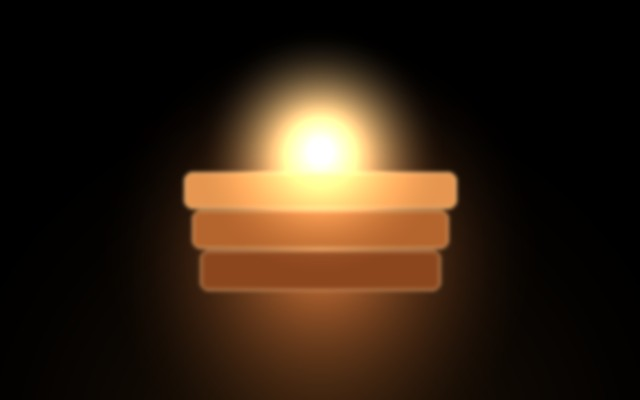
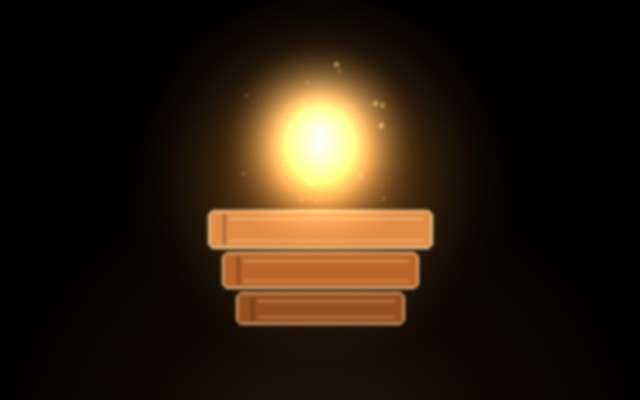
Branding scope fix, Membership section rebuild, pick art refresh, real Paddle path
- Brand name Peakora/Peakora+ now only dynamic in the assistant header,
  the 'Your Peakora(+), Your Way' heading, and the Insights top bar;
  onboarding and all other copy stay plain 'Peakora'
- Fix free-plan brand bug: membership state is now single-sourced from
  peakora_plus_member; switching to Free also resets subscription_status
- Footer tagline replaced with the official slogan
  '2026 Peakora(TM) - For a Better You.'
- Experience tab renamed to Membership and rebuilt: two glowing plan
  cards (Core free / Peakora+), per-plan feature rows, active-plan
  highlights, preview toggle, Paddle trust strip
- Picks cards get new metaphor artwork (doorway ajar in violet light,
  golden sunrise over water, glowing book stack) instead of the flat
  first drafts
- Paddle: official paddle.js v2 SDK is no longer clobbered by the demo
  mock - the mock only installs when the SDK fails to load; real flow
  initializes once with client token + price IDs (window/localStorage
  config) and opens the hosted checkout; demo completion never routes
  through the real SDK

Changed region(s): [[0.25, 0.12, 0.75, 1.0]]

diff --git a/assistant.html b/assistant.html
@@ -402,9 +402,7 @@
     }
 
     function isPeakoraPlusActive() {
-      const isPlusMember = localStorage.getItem("peakora_plus_member") === "true";
-      const subStatus = localStorage.getItem("peakora_subscription_status") || "";
-      return isPlusMember || subStatus === "Active";
+      return localStorage.getItem("peakora_plus_member") === "true";
     }
 
     function getBrandName() {
@@ -712,10 +710,8 @@
         if (outerFooter) outerFooter.style.display = "";
       }
 
-      // Dynamic header brand name update based on Peakora+ / Subscription Status
-      const isPlusMember = localStorage.getItem("peakora_plus_member") === "true";
-      const peakoraSubStatus = localStorage.getItem("peakora_subscription_status") || (isPlusMember ? "Active" : "Trial");
-      const isPlusActive = isPlusMember || peakoraSubStatus === "Active";
+      // Dynamic header brand name update based on Peakora+ membership
+      const isPlusActive = isPeakoraPlusActive();
 
       const brandEl = document.getElementById("header-brand-name");
       if (brandEl) {
@@ -729,7 +725,7 @@
       if (key === "welcome") {
         container.innerHTML = `
           <div class="step step-centered">
-            <h2>Welcome to ${getBrandName()}</h2>
+            <h2>Welcome to Peakora</h2>
             <p class="soft-note">A gentle corner of your day to breathe, reset, and get back to yourself.</p>
             <p>In a few short questions, we'll shape a 7-day plan that actually fits your life — no pressure, no perfection.</p>
             <div class="actions vertical mt-20">
@@ -745,7 +741,7 @@
       if (key === "explanation") {
         container.innerHTML = `
           <div class="step">
-            <h2>How ${getBrandName()} works</h2>
+            <h2>How Peakora works</h2>
             <p class="soft-note">Made to fit into your day, not take it over.</p>
             <ul class="preview-list">
               <li><strong>Gentle by design:</strong> No guilt, no pressure — you set the pace.</li>
@@ -1194,7 +1190,7 @@
                 <div class="dash-brand">
                   <div class="dash-brand-icon-orb" style="width:1.1em; height:1.1em; border-radius:50%; background:linear-gradient(135deg, #f4a261, #e76f51); box-shadow:0 0 12px rgba(244,162,97,0.6); flex-shrink:0;"></div>
                   <div>
-                    <div class="dash-brand-title">${getBrandName().toUpperCase()}</div>
+                    <div class="dash-brand-title">PEAKORA</div>
                     <div class="dash-brand-sub">Wellness Assistant</div>
                   </div>
                 </div>
@@ -1217,8 +1213,8 @@
                     Peakora Picks
                   </button>
                   <button class="dash-nav-btn ${activeTab === 'experience' ? 'active' : ''}" onclick="switchDashTab('experience')">
-                    <svg width="18" height="18" viewBox="0 0 24 24" fill="none" stroke="currentColor" stroke-width="2"><polygon points="12 2 15.09 8.26 22 9.27 17 14.14 18.18 21.02 12 17.77 5.82 21.02 7 14.14 2 9.27 8.91 8.26 12 2"></polygon></svg>
-                    Experience
+                    <svg width="18" height="18" viewBox="0 0 24 24" fill="none" stroke="currentColor" stroke-width="2"><path d="M12 2l2.4 4.8 5.3.8-3.8 3.7.9 5.3-4.8-2.5-4.8 2.5.9-5.3L4.3 7.6l5.3-.8z"></path></svg>
+                    Membership
                   </button>
                   <button class="dash-nav-btn ${activeTab === 'settings' ? 'active' : ''}" onclick="switchDashTab('settings')">
                     <svg width="18" height="18" viewBox="0 0 24 24" fill="none" stroke="currentColor" stroke-width="2"><circle cx="12" cy="12" r="3"></circle><path d="M19.4 15a1.65 1.65 0 0 0 .33 1.82l.06.06a2 2 0 0 1 0 2.83 2 2 0 0 1-2.83 0l-.06-.06a1.65 1.65 0 0 0-1.82-.33 1.65 1.65 0 0 0-1 1.51V21a2 2 0 0 1-2 2 2 2 0 0 1-2-2v-.09A1.65 1.65 0 0 0 9 19.4a1.65 1.65 0 0 0-1.82.33l-.06.06a2 2 0 0 1-2.83 0 2 2 0 0 1 0-2.83l.06-.06a1.65 1.65 0 0 0 .33-1.82 1.65 1.65 0 0 0-1.51-1H3a2 2 0 0 1-2-2 2 2 0 0 1 2-2h.09A1.65 1.65 0 0 0 4.6 9a1.65 1.65 0 0 0-.33-1.82l-.06-.06a2 2 0 0 1 0-2.83 2 2 0 0 1 2.83 0l.06.06a1.65 1.65 0 0 0 1.82.33H9a1.65 1.65 0 0 0 1-1.51V3a2 2 0 0 1 2-2 2 2 0 0 1 2 2v.09a1.65 1.65 0 0 0 1 1.51 1.65 1.65 0 0 0 1.82-.33l.06-.06a2 2 0 0 1 2.83 0 2 2 0 0 1 0 2.83l-.06.06a1.65 1.65 0 0 0-.33 1.82V9a1.65 1.65 0 0 0 1.51 1H21a2 2 0 0 1 2 2 2 2 0 0 1-2 2h-.09a1.65 1.65 0 0 0-1.51 1z"></path></svg>
@@ -1916,82 +1912,108 @@
           `;
         }
 
-        // TAB 6: PEAKORA EXPERIENCE & MEMBERSHIP
+        // TAB 6: MEMBERSHIP (FREE CORE + PEAKORA+ PLANS)
         if (activeTab === "experience") {
           const peakoraSubStatus = localStorage.getItem("peakora_subscription_status") || (isPlus ? "Active" : "Trial");
+          const freeFeatures = [
+            ["7-Day Personalized Reset Plan", "custom daily routines shaped around your answers"],
+            ["Mood Check-In & Bubble Visualizer", "watch honest patterns build over time"],
+            ["60-Second Breathing Reset", "somatic pacing that settles your whole system"],
+            ["Micro-Journal & Thought Unloading", "offload mental chatter, keep what matters"],
+            ["Daily Focus & Intention Anchors", "one clear priority, every morning"]
+          ];
+          const plusFeatures = [
+            ["Dynamic Themes & Color Spaces", "Sunrise, Twilight, Sage, Sunset, Ocean — your mood, your palette"],
+            ["Past Plan History & Archiving", "save weeks you loved and re-activate them anytime"],
+            ["Organic Soundscape Synthesizer", "binaural tones, ambient loops, and layered calm"],
+            ["Mood-Reactive Auto Themes", "the whole room quietly shifts color with how you feel"]
+          ];
+          const li = (f, color) => `
+            <div style="display:flex; gap:10px; align-items:flex-start;">
+              <span style="flex-shrink:0; width:20px; height:20px; border-radius:50%; background:${color}22; border:1px solid ${color}55; color:${color}; font-size:11px; font-weight:800; display:inline-flex; align-items:center; justify-content:center; margin-top:1px;">&#10003;</span>
+              <div style="font-size:12px; color:var(--theme-text-main); line-height:1.5;"><strong>${f[0]}</strong> <span style="color:var(--theme-text-muted);">— ${f[1]}</span></div>
+            </div>`;
 
           html += `
-            <div class="dash-welcome" style="margin-bottom:16px;">
+            <div class="dash-welcome" style="margin-bottom:18px;">
               <h1 class="dash-welcome-h1">Your ${getBrandName()}, Your Way</h1>
               <p style="font-size:12px; color:var(--theme-text-muted); margin-top:4px;">Free forever, or Plus when you want more room to play.</p>
             </div>
 
-            <!-- FREE PLAN BOX -->
-            <div class="dash-card mb-16" id="peakora-free-card" style="border:1px solid rgba(52, 211, 153, 0.3); background:rgba(255,255,255,0.02);">
-              <div style="display:flex; justify-content:space-between; align-items:center; margin-bottom:10px; flex-wrap:wrap; gap:6px;">
-                <div style="display:flex; align-items:center; gap:8px;">
-                  <h2 style="margin:0; font-size:18px; color:#ffffff;">Peakora Core (Free Plan)</h2>
-                </div>
-                <span class="sub-status-indicator" style="font-size:11px; font-weight:700; padding:4px 12px; border-radius:999px; background:rgba(52,211,153,0.18); color:#34d399; border:1px solid rgba(52,211,153,0.35); display:inline-flex; align-items:center; gap:5px;">
-                  <span style="font-size:8px;">●</span> Active Plan (Free)
-                </span>
-              </div>
-              <p style="font-size:13px; color:var(--theme-text-muted); margin:0 0 12px;">
-                Your essential daily mental reset toolkit. Always 100% free with no hidden subscriptions or intrusive advertisements.
-              </p>
-              <div style="background:rgba(255,255,255,0.03); border-radius:12px; padding:14px; margin-bottom:14px; border:1px solid rgba(255,255,255,0.08);">
-                <div style="font-size:12px; font-weight:700; color:#ffffff; margin-bottom:8px;">Included Free Features:</div>
-                <ul style="margin:0; padding-left:18px; font-size:12px; color:var(--theme-text-muted); line-height:1.7;">
-                  <li>✓ <strong>7-Day Personalized Reset Plan</strong> — Custom daily mental & sleep routines</li>
-                  <li>✓ <strong>Daily Mood Check-In & Bubble Visualizer</strong> — Track emotional trends over time</li>
-                  <li>✓ <strong>60-Second Breathing Reset Tool</strong> — Somatic diaphragmatic pacing</li>
-                  <li>✓ <strong>Micro-Journaling & Thought Unloading</strong> — Offload mental chatter safely</li>
-                  <li>✓ <strong>Daily Focus & Intention Anchors</strong> — Set one clear priority each morning</li>
-                </ul>
-              </div>
-              <button class="btn secondary" style="width:100%; font-size:12px; opacity:0.85; cursor:default;" disabled>
-                ✓ Currently Active (Free Plan)
-              </button>
-            </div>
+            <div style="display:grid; grid-template-columns:repeat(auto-fit, minmax(min(100%, 340px), 1fr)); gap:20px; align-items:stretch;">
 
-            <!-- PEAKORA+ PREMIUM MEMBERSHIP BOX -->
-            <div class="dash-card mb-16" id="peakora-plus-card" style="border:1px solid rgba(244,162,97,0.35);">
-              <div style="display:flex; justify-content:space-between; align-items:center; margin-bottom:10px; flex-wrap:wrap; gap:6px;">
-                <div style="display:flex; align-items:center; gap:8px;">
-                  <h2 style="margin:0; font-size:18px; color:#ffffff;">Peakora+ Premium Membership</h2>
+              <!-- PEAKORA CORE (FREE) -->
+              <div class="dash-card" id="peakora-free-card" style="margin:0; position:relative; overflow:hidden; display:flex; flex-direction:column; ${isPlus ? '' : 'border:1px solid rgba(52,211,153,0.45); box-shadow:0 10px 32px rgba(0,0,0,0.4), 0 0 26px rgba(52,211,153,0.14);'}">
+                <div style="position:absolute; top:-70px; right:-70px; width:190px; height:190px; border-radius:50%; background:radial-gradient(circle, rgba(52,211,153,0.22), transparent 70%); pointer-events:none;"></div>
+                <div style="display:flex; justify-content:space-between; align-items:flex-start; margin-bottom:4px; flex-wrap:wrap; gap:8px;">
+                  <div>
+                    <div style="font-size:10px; font-weight:800; letter-spacing:0.14em; text-transform:uppercase; color:#34d399; margin-bottom:4px;">Peakora Core</div>
+                    <h2 style="margin:0; font-size:20px; font-weight:800; color:var(--theme-heading, #ffffff);">The Free Plan</h2>
+                  </div>
+                  ${!isPlus ? `<span style="font-size:10px; font-weight:800; padding:5px 12px; border-radius:999px; background:rgba(52,211,153,0.18); color:#34d399; border:1px solid rgba(52,211,153,0.4); letter-spacing:0.06em;">YOUR PLAN</span>` : ''}
                 </div>
-                <div style="display:flex; align-items:center; gap:6px;">
-                  <span class="sub-status-indicator" style="font-size:11px; font-weight:700; padding:4px 12px; border-radius:999px; display:inline-flex; align-items:center; gap:5px; ${peakoraSubStatus === 'Active' ? 'background:rgba(244,162,97,0.2); color:#f4a261; border:1px solid rgba(244,162,97,0.4);' : 'background:rgba(245,158,11,0.2); color:#f59e0b; border:1px solid rgba(245,158,11,0.4);'}">
-                    <span style="font-size:8px;">●</span> Status: ${peakoraSubStatus}
+                <div style="display:flex; align-items:baseline; gap:6px; margin:8px 0 12px;">
+                  <span style="font-size:30px; font-weight:800; color:var(--theme-heading, #ffffff);">$0</span>
+                  <span style="font-size:12px; color:var(--theme-text-muted);">forever — no card, no catch</span>
+                </div>
+                <p style="font-size:12.5px; color:var(--theme-text-muted); margin:0 0 16px; line-height:1.6;">
+                  The essentials that keep you steady: a real plan, honest check-ins, and tools that meet you where you are.
+                </p>
+                <div style="display:flex; flex-direction:column; gap:11px; margin-bottom:20px;">
+                  ${freeFeatures.map(f => li(f, '#34d399')).join('')}
+                </div>
+                <div style="margin-top:auto;">
+                  ${isPlus
+                    ? `<button class="btn ghost" style="width:100%; font-size:12px; border:1px solid rgba(52,211,153,0.35); color:#34d399;" onclick="selectPlan(false)">Switch back to Free</button>`
+                    : `<div style="text-align:center; font-size:12px; font-weight:700; color:#34d399; padding:11px; border-radius:12px; background:rgba(52,211,153,0.1); border:1px dashed rgba(52,211,153,0.4);">This is your plan right now</div>`}
+                </div>
+              </div>
+
+              <!-- PEAKORA+ PREMIUM -->
+              <div class="dash-card" id="peakora-plus-card" style="margin:0; position:relative; overflow:hidden; display:flex; flex-direction:column; border:1px solid transparent; background:linear-gradient(var(--theme-card-bg), var(--theme-card-bg)) padding-box, var(--theme-primary-grad) border-box; box-shadow:0 14px 40px rgba(0,0,0,0.5), 0 0 34px var(--theme-card-glow);">
+                <div style="position:absolute; top:-60px; left:-60px; width:200px; height:200px; border-radius:50%; background:radial-gradient(circle, var(--theme-card-glow-hover), transparent 70%); pointer-events:none;"></div>
+                <div style="position:absolute; top:14px; right:14px; font-size:9px; font-weight:800; letter-spacing:0.12em; text-transform:uppercase; padding:5px 11px; border-radius:999px; background:var(--theme-primary-grad); color:#ffffff; box-shadow:0 4px 14px var(--theme-accent-glow);">Most Loved</div>
+                <div style="margin-bottom:4px;">
+                  <div style="font-size:10px; font-weight:800; letter-spacing:0.14em; text-transform:uppercase; background:var(--theme-primary-grad); -webkit-background-clip:text; background-clip:text; color:transparent; display:inline-block; margin-bottom:4px;">Peakora+ Membership</div>
+                  <h2 style="margin:0; font-size:20px; font-weight:800; color:var(--theme-heading, #ffffff);">The Deep Reset</h2>
+                </div>
+                <div style="display:flex; align-items:baseline; gap:6px; margin:8px 0 4px;">
+                  <span style="font-size:30px; font-weight:800; background:var(--theme-primary-grad); -webkit-background-clip:text; background-clip:text; color:transparent;">$4.99</span>
+                  <span style="font-size:12px; color:var(--theme-text-muted);">/mo &nbsp;or&nbsp; <strong style="color:var(--theme-text-main);">$47.99/yr</strong> (save 20%)</span>
+                </div>
+                <div style="font-size:11px; margin-bottom:14px; display:flex; align-items:center; gap:8px; flex-wrap:wrap;">
+                  <span class="sub-status-indicator" style="font-size:10px; font-weight:800; padding:4px 11px; border-radius:999px; display:inline-flex; align-items:center; gap:5px; ${isPlus ? 'background:rgba(244,162,97,0.2); color:var(--theme-accent); border:1px solid rgba(244,162,97,0.45);' : 'background:rgba(245,158,11,0.14); color:#f59e0b; border:1px solid rgba(245,158,11,0.35);'}">
+                    <span style="font-size:7px;">&#9679;</span> ${isPlus ? 'Active — thank you for being here' : 'Status: ' + peakoraSubStatus}
                   </span>
-                  <button type="button" class="btn ghost" style="font-size:10px; padding:3px 7px; border:1px solid rgba(255,255,255,0.15); border-radius:6px; cursor:pointer;" onclick="toggleMockSubscriptionStatus()" title="Toggle mock subscription status for testing">
-                    Switch to ${peakoraSubStatus === 'Active' ? 'Trial' : 'Active'}
+                  <button type="button" class="btn ghost" style="font-size:9px; padding:3px 7px; border:1px solid rgba(255,255,255,0.12); border-radius:6px; cursor:pointer; opacity:0.6;" onclick="toggleMockSubscriptionStatus()" title="Preview the other membership state">
+                    Preview ${isPlus ? 'free' : 'plus'}
                   </button>
                 </div>
+                <p style="font-size:12.5px; color:var(--theme-text-muted); margin:0 0 16px; line-height:1.6;">
+                  ${isPlus ? 'Everything below is already yours. Themes, soundscapes, saved weeks — all of it, unlocked.' : 'For the days you want the lights warmer and the sound deeper. Everything in Core, plus the quiet luxuries.'}
+                </p>
+                <div style="display:flex; flex-direction:column; gap:11px; margin-bottom:20px;">
+                  ${plusFeatures.map(f => li(f, '#f4a261')).join('')}
+                </div>
+                <div style="margin-top:auto;">
+                  <button class="btn primary" style="width:100%; font-size:13px; font-weight:800; padding:13px; box-shadow:0 8px 22px var(--theme-accent-glow);" onclick="openPlanSelectionModal()">
+                    ${isPlus ? 'Manage Membership & Billing' : 'Go Peakora+ — $4.99/mo'}
+                  </button>
+                  <div style="margin-top:10px; display:flex; justify-content:center; gap:14px; font-size:10px; color:var(--theme-text-muted); flex-wrap:wrap;">
+                    <span>7-day money-back guarantee</span>
+                    <span>&bull;</span>
+                    <span>Cancel anytime</span>
+                    <span>&bull;</span>
+                    <span>Secure checkout by Paddle</span>
+                  </div>
+                </div>
               </div>
-              <p style="font-size:13px; color:var(--theme-text-muted); margin:0 0 12px;">
-                ${isPlus ? 'Your Peakora+ subscription is active! You have full access to custom themes, audio soundscapes, and past plan archives.' : 'Elevate your reset with ambient soundscapes, dynamic emotional themes, auto mood-reactive styling, and past plan archives for $4.99/mo.'}
+            </div>
+
+            <div class="dash-card" style="margin-top:20px; text-align:center; padding:20px 24px;">
+              <p style="margin:0; font-size:12.5px; color:var(--theme-text-muted); line-height:1.7; font-style:italic;">
+                "Whether you stay on Core forever or move to Plus tomorrow — this space is yours either way."
               </p>
-              <div style="background:rgba(255,255,255,0.03); border-radius:12px; padding:14px; margin-bottom:14px; border:1px solid rgba(255,255,255,0.08);">
-                <div style="font-size:12px; font-weight:700; color:var(--theme-accent, #f4a261); margin-bottom:8px;">Peakora+ Premium Features ($4.99/mo or $47.99/yr):</div>
-                <ul style="margin:0; padding-left:18px; font-size:12px; color:var(--theme-text-muted); line-height:1.7;">
-                  <li style="color:${isPlus ? 'var(--theme-accent, #f4a261)' : 'var(--theme-text-muted)'}; font-weight:${isPlus ? '600' : 'normal'};">
-                    ✦ <strong>Dynamic Themes & Color Spaces</strong> (Sunrise, Twilight, Sage, Sunset, Ocean)
-                  </li>
-                  <li style="color:${isPlus ? 'var(--theme-accent, #f4a261)' : 'var(--theme-text-muted)'}; font-weight:${isPlus ? '600' : 'normal'};">
-                    ✦ <strong>Past 7-Day Plans History & Archiving</strong> — Save and re-activate previous reset plans
-                  </li>
-                  <li style="color:${isPlus ? 'var(--theme-accent, #f4a261)' : 'var(--theme-text-muted)'}; font-weight:${isPlus ? '600' : 'normal'};">
-                    ✦ <strong>Organic Soundscape Audio Synthesizer</strong> — Deep binaural white noise & ambient loops
-                  </li>
-                  <li style="color:${isPlus ? 'var(--theme-accent, #f4a261)' : 'var(--theme-text-muted)'}; font-weight:${isPlus ? '600' : 'normal'};">
-                    ✦ <strong>Mood-Reactive Auto Theme Switching</strong> — Visual UI shifts color to match your daily mood
-                  </li>
-                </ul>
-              </div>
-              <button class="btn primary" style="width:100%; font-size:13px;" onclick="openPlanSelectionModal()">
-                ${isPlus ? 'Manage Membership / Billing Options' : 'Explore Upgrade Options ($4.99/mo)'}
-              </button>
             </div>
           `;
         }
@@ -2122,7 +2144,7 @@
 
           <!-- Paddle Merchant Compliance Footer Links -->
           <div style="text-align:center; padding:16px 0 10px; border-top:1px solid rgba(255,255,255,0.08); font-size:11px; color:var(--theme-text-muted);">
-            <div>${getBrandName()} — your gentle daily wellness companion</div>
+            <div>© 2026 Peakora™ — For a Better You.</div>
             <div style="margin-top:6px; display:flex; justify-content:center; gap:12px; flex-wrap:wrap;">
               <a href="#" style="color:var(--accent-violet, #a78bfa); text-decoration:none;" onclick="openLegalModal('privacy'); return false;">Privacy Policy</a>
               <span>•</span>
@@ -2399,6 +2421,7 @@
         return;
       }
       localStorage.setItem("peakora_plus_member", "false");
+      localStorage.setItem("peakora_subscription_status", "Trial");
       closePlanSelectionModal();
       if (window.PeakoraTracker) {
         window.PeakoraTracker.track("membership_plan_selected", { isPlus: false });
@@ -2412,14 +2435,22 @@
     /* PADDLE SECURE CHECKOUT GATEWAY INTEGRATION */
     let activePaddlePaymentMethod = 'card';
 
-    // Global Paddle SDK Controller Implementation
-    window.Paddle = window.Paddle || {};
-    window.Paddle.Environment = window.Paddle.Environment || { set: function(env) { console.log('[Paddle] Environment set:', env); } };
-    window.Paddle.Setup = window.Paddle.Setup || function(options) { console.log('[Paddle] Setup initialized:', options); };
-    window.Paddle.Initialize = window.Paddle.Initialize || function(options) { console.log('[Paddle] Initialized:', options); };
+    // Global Paddle SDK Controller Implementation.
+    // If the official paddle.js v2 script loaded (it exposes Paddle.Checkout.open
+    // natively), we NEVER override it — the real hosted checkout must win for
+    // merchant inspection. The mock below is only a fallback for local/offline
+    // demos where the SDK could not load.
+    const paddleSdkLoaded = !!(
+      window.Paddle &&
+      typeof window.Paddle.Initialize === 'function' &&
+      window.Paddle.Checkout &&
+      typeof window.Paddle.Checkout.open === 'function'
+    );
 
-    window.Paddle.Checkout = window.Paddle.Checkout || {};
-    window.Paddle.Checkout.open = function(options) {
+    // Standalone demo checkout completion — used when the official SDK is
+    // unavailable or merchant credentials are not configured yet. Never routed
+    // through the real Paddle.Checkout.open.
+    function runDemoCheckoutCompletion(options) {
       options = options || {};
       const email = options.email || options.customerEmail || (state && state.email) || localStorage.getItem("peakora_user_email") || "peakora.network@gmail.com";
       const planType = options.plan || options.planType || (options.product == 'yearly' ? 'yearly' : 'monthly');
@@ -2450,6 +2481,7 @@
 
       // 2. Persist active membership in client state
       localStorage.setItem("peakora_plus_member", "true");
+      localStorage.setItem("peakora_subscription_status", "Active");
       localStorage.setItem("peakora_subscription_plan", planType);
       localStorage.setItem("peakora_subscription_id", transactionId);
       localStorage.setItem("peakora_subscription_method", methodName);
@@ -2487,7 +2519,18 @@
         const redirectUrl = options.redirectUrl || `thankyou.html?status=success&plan=${planType}&method=${encodeURIComponent(methodName)}&email=${encodeURIComponent(email)}&tx=${transactionId}&theme=${currentTheme}`;
         window.location.href = redirectUrl;
       }
-    };
+    }
+
+    if (!paddleSdkLoaded) {
+      window.Paddle = window.Paddle || {};
+      window.Paddle.Environment = window.Paddle.Environment || { set: function(env) { console.log('[Paddle] Environment set:', env); } };
+      window.Paddle.Setup = window.Paddle.Setup || function(options) { console.log('[Paddle] Setup initialized:', options); };
+      window.Paddle.Initialize = window.Paddle.Initialize || function(options) { console.log('[Paddle] Initialized:', options); };
+      window.Paddle.Checkout = window.Paddle.Checkout || {};
+      window.Paddle.Checkout.open = runDemoCheckoutCompletion;
+    } else {
+      console.log('[Paddle] Official paddle.js v2 SDK detected — mock checkout disabled.');
+    }
 
     async function checkServerSubscription() {
       try {
@@ -2496,6 +2539,7 @@
         const data = await res.json();
         if (data && data.success && data.status === 'active') {
           localStorage.setItem("peakora_plus_member", "true");
+          localStorage.setItem("peakora_subscription_status", "Active");
           if (data.plan) localStorage.setItem("peakora_subscription_plan", data.plan);
           if (data.transactionId) localStorage.setItem("peakora_subscription_id", data.transactionId);
         }
@@ -2680,9 +2724,41 @@
       if (modal) modal.style.display = "none";
     }
 
+    /* Merchant credentials for the live Paddle checkout.
+       Fill these in before submitting for Paddle inspection:
+         window.PADDLE_CLIENT_TOKEN       — client-side token from the Paddle dashboard
+         window.PADDLE_MONTHLY_PRICE_ID   — price ID (pri_...) for the $4.99/mo plan
+         window.PADDLE_YEARLY_PRICE_ID    — price ID (pri_...) for the $47.99/yr plan
+       They can also be provided via localStorage keys of the same lowercase names. */
+    let paddleRealInitialized = false;
+
+    function initRealPaddle(clientToken, planType, price, methodName, email) {
+      if (!paddleSdkLoaded) return false;
+      if (!clientToken) return false;
+      try {
+        if (!paddleRealInitialized) {
+          const env = localStorage.getItem("paddle_env") || 'sandbox';
+          if (env === 'sandbox') window.Paddle.Environment.set('sandbox');
+          window.Paddle.Initialize({
+            token: clientToken,
+            eventCallback: function(evt) {
+              if (evt && (evt.name === 'checkout.completed' || evt.name === 'payment.succeeded')) {
+                executePaddleCheckoutCompletion(planType, price, methodName, email);
+              }
+            }
+          });
+          paddleRealInitialized = true;
+        }
+        return true;
+      } catch(err) {
+        console.warn("[Paddle v2 SDK] Initialize failed:", err);
+        return false;
+      }
+    }
+
     async function processPaddlePayment(event, planType, price, methodName = 'Credit Card') {
       if (event && event.preventDefault) event.preventDefault();
-      
+
       const emailInput = document.getElementById("paddle-email");
       const email = (emailInput && emailInput.value.trim()) ? emailInput.value.trim() : (localStorage.getItem("peakora_user_email") || "peakora.network@gmail.com");
       localStorage.setItem("peakora_user_email", email);
@@ -2693,17 +2769,8 @@
       const activePriceId = planType === 'yearly' ? yearlyPriceId : monthlyPriceId;
 
       // Real Official Paddle SDK v2 Checkout Invocation (if merchant keys are present)
-      if (clientToken && activePriceId && window.Paddle && typeof window.Paddle.Initialize === 'function') {
+      if (activePriceId && initRealPaddle(clientToken, planType, price, methodName, email)) {
         try {
-          window.Paddle.Environment.set(localStorage.getItem("paddle_env") || 'sandbox');
-          window.Paddle.Initialize({
-            token: clientToken,
-            eventCallback: function(evt) {
-              if (evt && (evt.name === 'checkout.completed' || evt.name === 'payment.succeeded')) {
-                executePaddleCheckoutCompletion(planType, price, methodName, email);
-              }
-            }
-          });
           window.Paddle.Checkout.open({
             items: [{ priceId: activePriceId, quantity: 1 }],
             customer: { email: email }
@@ -2714,7 +2781,7 @@
         }
       }
 
-      // Direct Seamless Execution (Zero dummy popups / Direct payment completion)
+      // Demo fallback when merchant keys are not configured yet
       executePaddleCheckoutCompletion(planType, price, methodName, email);
     }
 
@@ -2744,7 +2811,7 @@
       }, 400);
 
       setTimeout(() => {
-        window.Paddle.Checkout.open({
+        runDemoCheckoutCompletion({
           email: email,
           plan: planType,
           price: price,
